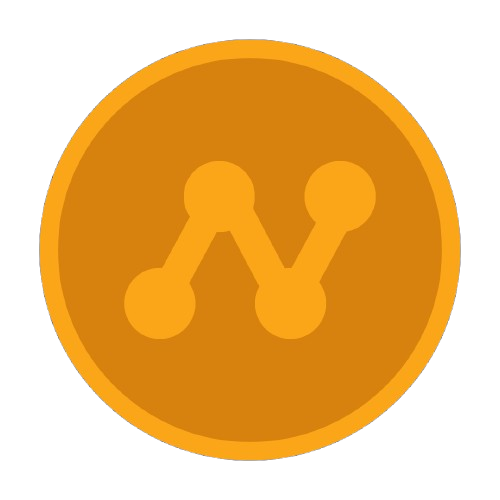
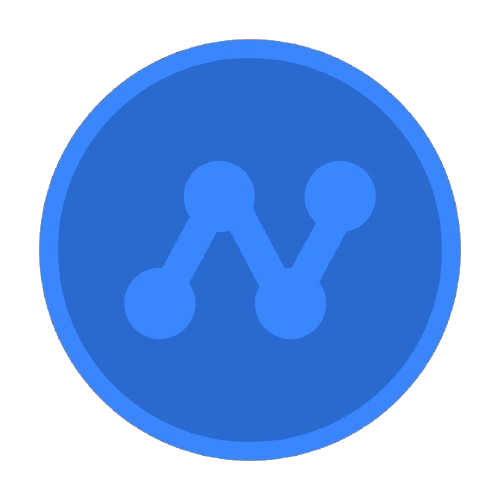
Edit branding and color pallet

diff --git a/tailwind.config.js b/tailwind.config.js
@@ -35,7 +35,8 @@ module.exports = {
         textocean: '#2632D9',
         subtext: '#227CF2',
         select: '#CCD2D3', // Corrigido: estava sem #
-        btn: '#FBA518',
+        btn: '#3A86FF',
+        btn2: '#FBA518',
 
         input: 'hsl(var(--input))',
         ring: 'hsl(var(--ring))',
